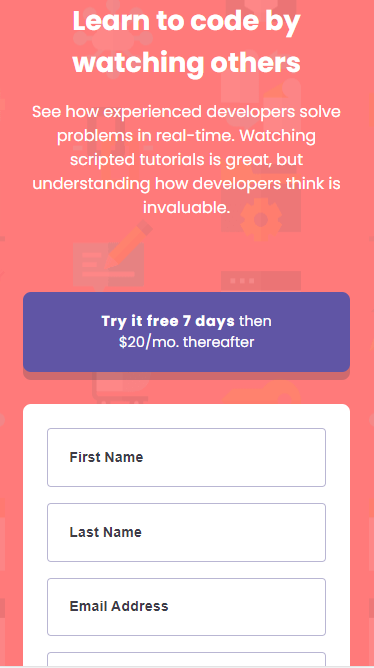
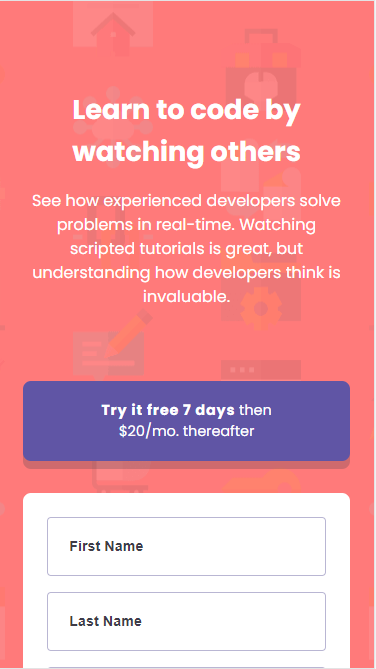
Completed contact and footer

diff --git a/index.html b/index.html
@@ -33,11 +33,11 @@
           <h2 id="html">HTML</h2>
           <h2 id="css">CSS</h2>
           <h2 id="js">JavaScript</h2>
-          <nav id="see-more-box" class="rel flexr fcenter">
+          <a href="#about" id="see-more-box" class="rel flexr fcenter">
             <div id="see-more-btn" class="rel">
               <div id="see-more-text">See More</div>
             </div>
-          </nav>
+          </a>
           <p id="css-animations">*animations made using CSS @keyframes</p>
         </header>
         <main id="main" class="rel grid-container">
@@ -354,6 +354,7 @@
                 <p class="project-text rel">
                   Project from 'The Complete JavaScript Course 2022' on Udemy.
                 </p>
+                <p class="yellow">user: jd pin: 2222</p>
               </div>
             </a>
 
@@ -375,8 +376,91 @@
               </div>
             </a>
           </section>
-          <section id="contact" class="rel section"></section>
+          <section id="contact" class="rel section flexc">
+            <h3 id="contact-header" class="rel section-header">Contact</h3>
+            <p id="contact-text" class="rel">
+              Have a question or want to work together?
+            </p>
+            <form
+              action="https://formspree.io/f/xknyeeak"
+              method="POST"
+              id="contact-form"
+              class="rel flexc fcenter"
+            >
+              <div id="input-box" class="rel">
+                <div id="form-left" class="rel flexc">
+                  <input
+                    type="name"
+                    name="name"
+                    placeholder="Name"
+                    id="contact-name"
+                    class="rel input"
+                  />
+                  <input
+                    type="email"
+                    name="email"
+                    placeholder="Email"
+                    id="contact-email"
+                    class="rel input"
+                  />
+                </div>
+                <div id="form-right" class="rel flexc">
+                  <textarea
+                    name="message"
+                    placeholder="Message"
+                    rows="10"
+                    cols="30"
+                    id="contact-message"
+                    class="rel input"
+                  ></textarea>
+                </div>
+              </div>
+              <div id="contact-btn-box" class="rel">
+                <button type="submit" id="contact-btn">
+                  <div id="send">Send</div>
+                </button>
+              </div>
+            </form>
+          </section>
         </main>
+        <footer id="footer" class="rel flexc fcenter">
+          <a href="#hero" id="footer-to-top" class="rel">
+            <div id="button-to-top" class="rel">
+              <img
+                src="images/chevrons-up.png"
+                alt="Arrows to top"
+                id="to-top"
+                class="rel"
+              />
+            </div>
+          </a>
+          <div id="footer-icons" class="rel flexr">
+            <a
+              href="https://github.com/KaitlynLilith"
+              id="github-link"
+              class="rel footer-icon-link"
+            >
+              <div id="github-box" class="rel flexc fcenter footer-icon-box">
+                <div id="github" class="footer-icon rel">
+                  <i class="fa-brands fa-github"></i>
+                </div>
+              </div>
+            </a>
+
+            <a
+              href="https://www.linkedin.com/in/angelakayefox/"
+              id="linked-in-link"
+              class="rel footer-icon-link"
+            >
+              <div id="linked-in-box" class="rel flexc fcenter footer-icon-box">
+                <div id="linked-in" class="footer-icon rel">
+                  <i class="fa-brands fa-linkedin-in"></i>
+                </div>
+              </div>
+            </a>
+          </div>
+          <small id="copyright" class="rel">&copy 2022 Kaitlyn Lilith</small>
+        </footer>
       </div>
     </div>
   </body>

diff --git a/styles/index.css b/styles/index.css
@@ -12,6 +12,7 @@
 /* Formats the box holding everything */
 #everythingbox {
   width: 100vw;
+  font-family: "Source Code Pro", monospace;
 }
 
 #insulation {
@@ -371,6 +372,10 @@
 }
 
 /* About section */
+.section-header {
+  text-align: center;
+  font-size: 2.5rem;
+}
 
 #about {
   grid-area: about;
@@ -480,6 +485,7 @@
 }
 
 #info-text-link {
+  color: red;
 }
 
 #skills-box {
@@ -554,7 +560,7 @@
   grid-template-areas: "heading" "svaldi" "faqs-accordian" "time-tracker" "interactive-rating" "intro-component" "ping-coming-soon" "bankist" "mapty";
   justify-content: center;
   align-items: center;
-  background: url(../images/concrete.jpg) repeat center;
+  background: url(../images/concrete.png) repeat center;
   background-color: black;
   text-align: center;
 }
@@ -630,6 +636,143 @@
 /* Contact section */
 
 #contact {
+  padding: 2rem;
+}
+
+#contact-header {
+  margin-bottom: 1rem;
+}
+
+#contact-text {
+  font-size: 1.2rem;
+  text-align: center;
+}
+
+#contact-form {
+}
+
+#input-box {
+  display: flex;
+  flex-direction: column;
+}
+
+#form-left {
+}
+
+#form-right {
+}
+
+.input {
+  margin: 1rem;
+  padding: 0.5rem 0.75rem;
+  border-radius: 1.5rem;
+  border: 0.2rem solid black;
+}
+
+.input::placeholder {
+  font-family: "Source Code Pro", monospace;
+  color: var(--black);
+  font-size: 1rem;
+}
+
+#contact-name {
+}
+
+#contact-email {
+}
+
+#contact-btn-box {
+  width: 10rem;
+  height: 4rem;
+  align-self: center;
+  background-image: var(--red-button);
+  background-size: cover;
+  cursor: pointer;
+}
+
+#contact-btn {
+  width: 10rem;
+  height: 4rem;
+  border: 0;
+  font-size: 1.5rem;
+  font-weight: 700;
+  background: transparent;
+}
+
+#send {
+  position: absolute;
+  top: 50%;
+  left: 50%;
+  transform: translate(-50%, -50%);
+  color: var(--white);
+}
+
+/* Footer section */
+#footer {
+  background-image: var(--index-header);
+  background-color: var(--black);
+  background-size: cover;
+  background-repeat: no-repeat;
+  background-position: center;
+}
+
+#footer-to-top {
+  margin: 1rem;
+}
+
+#button-to-top {
+  width: 4rem;
+  height: 4rem;
+  background-image: url(../images/square-button.png);
+  background-position: center;
+  background-size: cover;
+}
+
+#to-top {
+  width: 2rem;
+  height: 2rem;
+  position: absolute;
+  top: 50%;
+  left: 50%;
+  transform: translate(-50%, -50%);
+}
+
+#footer-icons {
+}
+
+.footer-icon-link {
+  margin: 1rem;
+}
+
+.footer-icon-box {
+}
+
+.footer-icon {
+  font-size: 2rem;
+  color: var(--white);
+}
+
+#github-link {
+}
+
+#github-box {
+}
+
+#github {
+}
+
+#linked-in-link {
+}
+
+#linked-in-box {
+}
+
+#linked-in {
+}
+
+#copyright {
+  margin: 1rem;
+  color: var(--white);
 }
 
 /* RESPONSIVE CSS */
@@ -698,6 +841,10 @@
     max-width: 30vw;
     max-height: 70vh;
   }
+
+  #input-box {
+    flex-direction: row;
+  }
 }
 
 /* Changes settings at 1024px to 1500px screen size */
@@ -763,6 +910,14 @@
   .project-img {
     max-width: 30vw;
     max-height: 70vh;
+  }
+
+  #input-box {
+    flex-direction: row;
+  }
+
+  .input {
+    width: 20rem;
   }
 }
 
@@ -832,5 +987,13 @@
   .project-img {
     max-width: 30vw;
     max-height: 70vh;
+  }
+
+  #input-box {
+    flex-direction: row;
+  }
+
+  .input {
+    width: 20rem;
   }
 }
